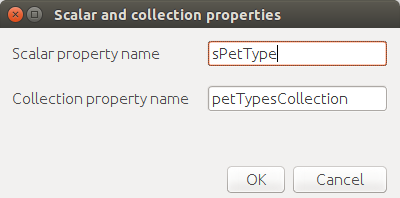
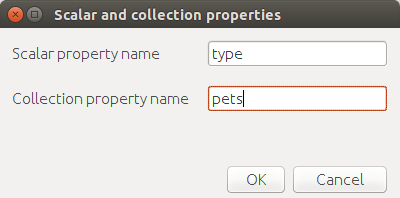
changes in quick start

Changed region(s): [[0.51, 0.1818, 0.99, 0.3333], [0.51, 0.4242, 0.99, 0.5758]]

diff --git a/docs/eng/html/Quick_Start/index.html b/docs/eng/html/Quick_Start/index.html
@@ -892,14 +892,14 @@ Platform menu item in the global menu.</p></div>
 </div>
 <div class="title">Figure 3. Project creation</div>
 </div>
-<div class="paragraph"><p>Next, you shoud set project&#8217;s name and it&#8217;s location (Fig. <a href="#project_name">project name</a>).</p></div>
+<div class="paragraph"><p>Next, you should set project&#8217;s name and it&#8217;s location (Fig. <a href="#project_name">project name</a>).</p></div>
 <div class="imageblock" id="project_name">
 <div class="content">
 <img src="images/projectName.png" alt="Choose project name">
 </div>
 <div class="title">Figure 4. Choose project name</div>
 </div>
-<div class="paragraph"><p>After project was created, we will set it&#8217;s properties so he could be started as HTML5 application. Perform right mouse button clickand in menu choos <em>Properties</em>.
+<div class="paragraph"><p>After project was created, we will set it&#8217;s properties so he could be started as HTML5 application. Perform right mouse button click and in menu choose <em>Properties</em>.
 In modal window,shown on Fig. <a href="#project_properties">project properties</a>. Select <em>Client &#8594; HTML5 web browser</em> and <em>Application server &#8594; J2EE Server</em>.</p></div>
 <div class="imageblock" id="project_properties">
 <div class="content">
@@ -907,9 +907,9 @@ In modal window,shown on Fig. <a href="#project_properties">project properties</
 </div>
 <div class="title">Figure 5. Setting project properties</div>
 </div>
-<div class="paragraph"><p>In most cases Apache Tomcat application server is allready installed and configured to work with Platypus, so you can skip following steps and check J2EE Server settings tab
+<div class="paragraph"><p>In most cases Apache Tomcat application server is already installed and configured to work with Platypus, so you can skip following steps and check J2EE Server settings tab
 (Fig. <a href="#project_server">project server</a>). In other cases you should add J2EE server manually. To do this, you should go to Services tab and perform right click on <em>Servers</em> item.
-In context menu choose <em>Add Server</em>, on screenyou will se folowing window (Fig. <a href="#selecting_server">add server</a>).</p></div>
+In context menu choose <em>Add Server</em>, on screen you will see following window (Fig. <a href="#selecting_server">add server</a>).</p></div>
 <div class="imageblock" id="selecting_server">
 <div class="content">
 <img src="images/serverType.png" alt="Server type">
@@ -917,7 +917,7 @@ In context menu choose <em>Add Server</em>, on screenyou will se folowing window
 <div class="title">Figure 6. Selecting Java EE server type</div>
 </div>
 <div class="paragraph"><p>After you have selected server, click the <em>Next</em> button. We will show how to set <em>Apache Tomcat</em> server.  Using next menu (Fig. <a href="#tomcat">adding Tomcat</a>), browse server folder location and set
-Username and password foruser manager role.</p></div>
+Username and password for user manager role.</p></div>
 <div class="imageblock" id="tomcat">
 <div class="content">
 <img src="images/apacheCreation.png" alt="Tomcat folder selection">
@@ -931,7 +931,7 @@ Username and password foruser manager role.</p></div>
 </div>
 <div class="title">Figure 8. Tomcat properties</div>
 </div>
-<div class="paragraph"><p>Finally you shoud set J2EE Server settings for project properties (Fig. <a href="#project_server">project server</a>).</p></div>
+<div class="paragraph"><p>Finally you should set J2EE Server settings for project properties (Fig. <a href="#project_server">project server</a>).</p></div>
 <div class="imageblock" id="project_server">
 <div class="content">
 <img src="images/serverCreation.png" alt="Choose server type">
@@ -1043,7 +1043,7 @@ The <span class="monospaced">ModelGrid</span> widget to display the owners list.
 </div>
 <div class="title">Figure 15. Owners view</div>
 </div>
-<div class="paragraph"><p>Using <em>Pallete</em> tool add elements to panel by drag-drop. Add the header panel from the containers palette on the form, put the
+<div class="paragraph"><p>Using <em>Palette</em> tool add elements to panel by drag-drop. Add the header panel from the containers palette on the form, put the
 buttons and the text field from the standard components palette on the
 panel. Provide meaningful names for the added components. Set texts to
 the added buttons. Drag-and-drop a <span class="monospaced">ModelGrid</span> from the model widgets
@@ -1072,7 +1072,7 @@ http://www.gnu.org/software/src-highlite -->
 fields to return an owner&#8217;s full name. Use the <span class="monospaced">:lastNamePattern</span> to
 provide a search pattern for the owner&#8217;s last name. Adding alias to the fields
 allows us to use ORM (Object Relation Mapper) on any database in future.</p></div>
-<div class="paragraph"><p>Add <span class="monospaced">@public</span> anntotation to the query&#8217;s header to enable access via
+<div class="paragraph"><p>Add <span class="monospaced">@public</span> annotation to the query&#8217;s header to enable access via
 network from a remote data model running on a client and save the query.</p></div>
 <div class="paragraph"><p>Drag-and-drop it to the <span class="monospaced">OwnersView</span> data model. You may also go to the new entity&#8217;s
 properties and provide its name, for example <span class="monospaced">owners</span>.</p></div>
@@ -1217,7 +1217,7 @@ value.</p></div>
 data can be added to the database tables using our SQL query. When a
 query is run the result are shown in a separate results window. You can
 also insert, delete and update database records using this window.</p></div>
-<div class="paragraph"><p>To obtain all data on form load we will add folowing code to method <em>show</em>:</p></div>
+<div class="paragraph"><p>To obtain all data on form load we will add following code to method <em>show</em>:</p></div>
 <div class="listingblock">
 <div class="content"><!-- Generator: GNU source-highlight 3.1.6
 by Lorenzo Bettini
@@ -1330,7 +1330,7 @@ http://www.gnu.org/software/src-highlite -->
 <div class="sect1">
 <h2 id="Scalar_and_collection_properties">Scalar and collection properties</h2>
 <div class="sectionbody">
-<div class="paragraph"><p>We need to create some scalar and collection properties for our <em>OwnerView</em> datamodel. You should select link between <em>petsQuery</em> and <em>petTypesQuery</em> and perform right mouse button click. In preperties window (Fig. <a href="#petsCollection">pets Collection</a> set name for Scalar property name and Collection property name. Perform same task on connection between <em>petsQuery</em> and <em>visitsQuery</em> (Fig. <a href="#visitsCollection">visits collection</a>).</p></div>
+<div class="paragraph"><p>We need to create some scalar and collection properties for our <em>OwnerView</em> datamodel. You should select link between <em>petsQuery</em> and <em>petTypesQuery</em> and perform right mouse button click. In properties window (Fig. <a href="#petsCollection">pets Collection</a> set name for Scalar property name and Collection property name. Perform same task on connection between <em>petsQuery</em> and <em>visitsQuery</em> (Fig. <a href="#visitsCollection">visits collection</a>).</p></div>
 <div class="imageblock" id="petsCollection">
 <div class="content">
 <img src="images/db/petsCollection.png" alt="Pets collection">
@@ -1359,7 +1359,7 @@ for the currently selected pet. To solve this issue we will use our collections,
 <div class="paragraph"><p>In Pet&#8217;s grid bind data to corresponding query (<em>petsQuery</em>) and use <em>Fill columns</em> context menu to create columns.
 Using inspector (as it was shown earlier in Fig. <a href="#inspector">Inspector</a>) delete unnecessary columns with id&#8217;s and delete service column. Provide the correct text for the columns headers. Add Check grid column, so the user could select multiple pets.
 Unlike the owners list grid the pets and visits grids will allow edit their cell data.</p></div>
-<div class="paragraph"><p>Provide the ModelCombo widget as a cell component for the <em>petType</em> column on the pets grid (Fig. <a href="#combo_view">Combo View</a>). Set scalar property name, that we have defined earlier (<a href="#petsCollection">pets collection</a>) <em>sPetType</em> to this column. For <em>ModelCombo</em> set <em>displayField</em> property to <em>name</em>  and <em>displayList</em> to <em>petTypesQuery</em> (Fig. <a href="#combo_view_properties">combo properties</a>).</p></div>
+<div class="paragraph"><p>Provide the ModelCombo widget as a cell component for the <em>petType</em> column on the pets grid (Fig. <a href="#combo_view">Combo View</a>). Set scalar property name, that we have defined earlier (<a href="#petsCollection">pets collection</a>) <em>type</em> to this column. For <em>ModelCombo</em> set <em>displayField</em> property to <em>name</em> and <em>displayList</em> to <em>petTypesQuery</em> (Fig. <a href="#combo_view_properties">combo properties</a>).</p></div>
 <div class="imageblock" id="combo_view">
 <div class="content">
 <img src="images/settings/comboView.png" alt="combo view">
@@ -1372,7 +1372,7 @@ Unlike the owners list grid the pets and visits grids will allow edit their cell
 </div>
 <div class="title">Figure 25. Combo view properties</div>
 </div>
-<div class="paragraph"><p>Master-detaile view is creating by using two model grids, on same form. Master - is our pets, detail - pet&#8217;s visit. We should set grid properties for visits. Set data field - <em>petsQuery</em>, but field must be set as <em>cursor.visitsCollection</em>. This collection we have also defined earlier (<a href="#visitsCollection">visits collection</a>) ORM of <em>Platypus.JS</em> will automatically return certain collection for certain pet (Fig. <a href="#visitGridProperties">visit grid properties</a> ).</p></div>
+<div class="paragraph"><p>Master-detail view is creating by using two model grids, on same form. Master - is our pets, detail - pet&#8217;s visit. We should set grid properties for visits. Set data field - <em>petsQuery</em>, but field must be set as <em>cursor.visits</em>. This collection we have also defined earlier (<a href="#visitsCollection">visits collection</a>) ORM of <em>Platypus.JS</em> will automatically return certain collection for certain pet (Fig. <a href="#visitGridProperties">visit grid properties</a> ).</p></div>
 <div class="imageblock" id="visitGridProperties">
 <div class="content">
 <img src="images/settings/visitGridProperties.png" alt="combo view properties">
@@ -1656,7 +1656,7 @@ http://www.gnu.org/software/src-highlite -->
     <span style="color: #FF0000">}</span><span style="color: #990000">,</span> onFailure<span style="color: #990000">);</span>
 
 <span style="color: #FF0000">}</span><span style="color: #990000">;</span></tt></pre></div></div>
-<div class="paragraph"><p>On layuout tab click on <em>edit report template</em> to edit the report template. Provide the report&#8217;s header,
+<div class="paragraph"><p>On layout tab click on <em>edit report template</em> to edit the report template. Provide the report&#8217;s header,
 owners tables columns headers and the columns tags as it shown below:</p></div>
 <table class="tableblock frame-all grid-all"
 style="
@@ -1717,23 +1717,42 @@ http://www.gnu.org/software/src-highlite -->
 <span style="font-weight: bold"><span style="color: #0000FF">function</span></span> <span style="font-weight: bold"><span style="color: #000000">serverModule</span></span><span style="color: #990000">()</span> <span style="color: #FF0000">{</span>
     <span style="font-weight: bold"><span style="color: #0000FF">var</span></span> self <span style="color: #990000">=</span> <span style="font-weight: bold"><span style="color: #0000FF">this</span></span><span style="color: #990000">,</span> model <span style="color: #990000">=</span> P<span style="color: #990000">.</span><span style="font-weight: bold"><span style="color: #000000">loadModel</span></span><span style="color: #990000">(</span><span style="font-weight: bold"><span style="color: #0000FF">this</span></span><span style="color: #990000">.</span>constructor<span style="color: #990000">.</span>name<span style="color: #990000">);</span>
 
-    self<span style="color: #990000">.</span>execute <span style="color: #990000">=</span> <span style="font-weight: bold"><span style="color: #0000FF">function</span></span> <span style="color: #990000">()</span> <span style="color: #FF0000">{</span>
+    self<span style="color: #990000">.</span>execute <span style="color: #990000">=</span> <span style="font-weight: bold"><span style="color: #0000FF">function</span></span> <span style="color: #990000">(</span>reportSuccessCallback<span style="color: #990000">)</span> <span style="color: #FF0000">{</span>
         <span style="font-weight: bold"><span style="color: #0000FF">var</span></span> oReport <span style="color: #990000">=</span> <span style="font-weight: bold"><span style="color: #0000FF">new</span></span> <span style="font-weight: bold"><span style="color: #000000">OwnersReport</span></span><span style="color: #990000">();</span>
-        oReport<span style="color: #990000">.</span><span style="font-weight: bold"><span style="color: #000000">execute</span></span><span style="color: #990000">();</span>
+        oReport<span style="color: #990000">.</span><span style="font-weight: bold"><span style="color: #000000">execute</span></span><span style="color: #990000">(</span>reportSuccessCallback<span style="color: #990000">);</span>
     <span style="color: #FF0000">}</span><span style="color: #990000">;</span>
 <span style="color: #FF0000">}</span></tt></pre></div></div>
-<div class="paragraph"><p>Because we are going to call our server module over network, we should add annotation @publuc (like in queries).
-We also shoud rewrite code in Report button:</p></div>
+<div class="paragraph"><p>Because we are going to call our server module over network, we should add annotation @public (like in queries).</p></div>
+<div class="paragraph"><p>On the next step we need to modify report generation code, where we will return generated report to callback.</p></div>
 <div class="listingblock">
 <div class="content"><!-- Generator: GNU source-highlight 3.1.6
 by Lorenzo Bettini
 http://www.lorenzobettini.it
 http://www.gnu.org/software/src-highlite -->
-<pre><tt>form<span style="color: #990000">.</span>btnReport<span style="color: #990000">.</span>onActionPerformed <span style="color: #990000">=</span> <span style="font-weight: bold"><span style="color: #0000FF">function</span></span> <span style="color: #990000">(</span>event<span style="color: #990000">)</span> <span style="color: #FF0000">{</span>
-   <span style="font-weight: bold"><span style="color: #0000FF">var</span></span> srvModule <span style="color: #990000">=</span> <span style="font-weight: bold"><span style="color: #0000FF">new</span></span> P<span style="color: #990000">.</span><span style="font-weight: bold"><span style="color: #000000">ServerModule</span></span><span style="color: #990000">(</span><span style="color: #FF0000">"serverModule"</span><span style="color: #990000">);</span>
-   srvModule<span style="color: #990000">.</span><span style="font-weight: bold"><span style="color: #000000">execute</span></span><span style="color: #990000">();</span>
+<pre><tt>self<span style="color: #990000">.</span>execute <span style="color: #990000">=</span> <span style="font-weight: bold"><span style="color: #0000FF">function</span></span> <span style="color: #990000">(</span>onSuccess<span style="color: #990000">,</span> onFailure<span style="color: #990000">)</span> <span style="color: #FF0000">{</span>
+    model<span style="color: #990000">.</span>ownersQuery<span style="color: #990000">.</span>params<span style="color: #990000">.</span>lastNamePattern <span style="color: #990000">=</span> <span style="color: #FF0000">"%%"</span><span style="color: #990000">;</span>
+    model<span style="color: #990000">.</span><span style="font-weight: bold"><span style="color: #000000">requery</span></span><span style="color: #990000">(</span><span style="font-weight: bold"><span style="color: #0000FF">function</span></span> <span style="color: #990000">()</span> <span style="color: #FF0000">{</span>
+        <span style="font-weight: bold"><span style="color: #0000FF">var</span></span> report <span style="color: #990000">=</span> template<span style="color: #990000">.</span><span style="font-weight: bold"><span style="color: #000000">generateReport</span></span><span style="color: #990000">();</span>
+        <span style="font-style: italic"><span style="color: #9A1900">//report.show(); | report.print(); | var savedTo = report.save(saveTo ?);</span></span>
+        <span style="font-weight: bold"><span style="color: #000000">onSuccess</span></span><span style="color: #990000">(</span>report<span style="color: #990000">);</span>
+    <span style="color: #FF0000">}</span><span style="color: #990000">,</span> onFailure<span style="color: #990000">);</span>
 <span style="color: #FF0000">}</span><span style="color: #990000">;</span></tt></pre></div></div>
-<div class="paragraph"><p>Thanks foryou attention.</p></div>
+<div class="paragraph"><p>We also should rewrite code in Report button:</p></div>
+<div class="listingblock">
+<div class="content"><!-- Generator: GNU source-highlight 3.1.6
+by Lorenzo Bettini
+http://www.lorenzobettini.it
+http://www.gnu.org/software/src-highlite -->
+<pre><tt><span style="font-weight: bold"><span style="color: #0000FF">var</span></span> reportCallback <span style="color: #990000">=</span> <span style="font-weight: bold"><span style="color: #0000FF">function</span></span> <span style="color: #990000">(</span>report<span style="color: #990000">)</span> <span style="color: #FF0000">{</span>
+    report<span style="color: #990000">.</span><span style="font-weight: bold"><span style="color: #000000">show</span></span><span style="color: #990000">();</span>
+<span style="color: #FF0000">}</span><span style="color: #990000">;</span>
+
+form<span style="color: #990000">.</span>btnReport<span style="color: #990000">.</span>onActionPerformed <span style="color: #990000">=</span> <span style="font-weight: bold"><span style="color: #0000FF">function</span></span> <span style="color: #990000">(</span>event<span style="color: #990000">)</span> <span style="color: #FF0000">{</span>
+    <span style="font-weight: bold"><span style="color: #0000FF">var</span></span> srvModule <span style="color: #990000">=</span> <span style="font-weight: bold"><span style="color: #0000FF">new</span></span> P<span style="color: #990000">.</span><span style="font-weight: bold"><span style="color: #000000">ServerModule</span></span><span style="color: #990000">(</span><span style="color: #FF0000">"serverModule"</span><span style="color: #990000">);</span>
+    srvModule<span style="color: #990000">.</span><span style="font-weight: bold"><span style="color: #000000">execute</span></span><span style="color: #990000">(</span>reportCallback<span style="color: #990000">);</span>
+<span style="color: #FF0000">}</span><span style="color: #990000">;</span></tt></pre></div></div>
+<div class="paragraph"><p>After report has been generated, it will be returned to client. If you are launching your&#8217;s application as HTML5 client, then report will be downloaded by browser when it&#8217;s method <em>show</em> is called, otherwise it will launch assosiated application (Excel for example).</p></div>
+<div class="paragraph"><p>Thanks for you attention.</p></div>
 </div>
 </div>
 <div class="sect1">
